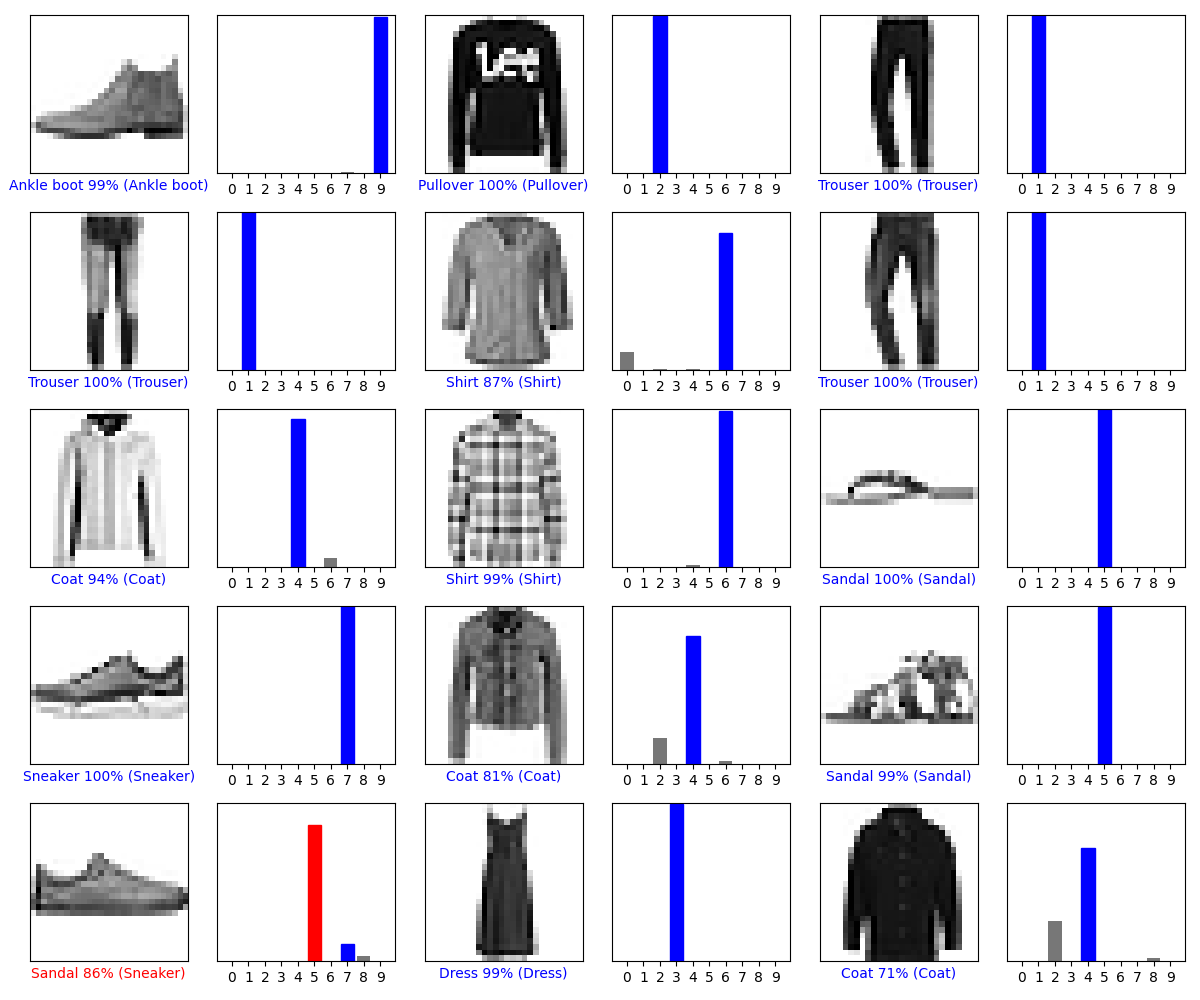
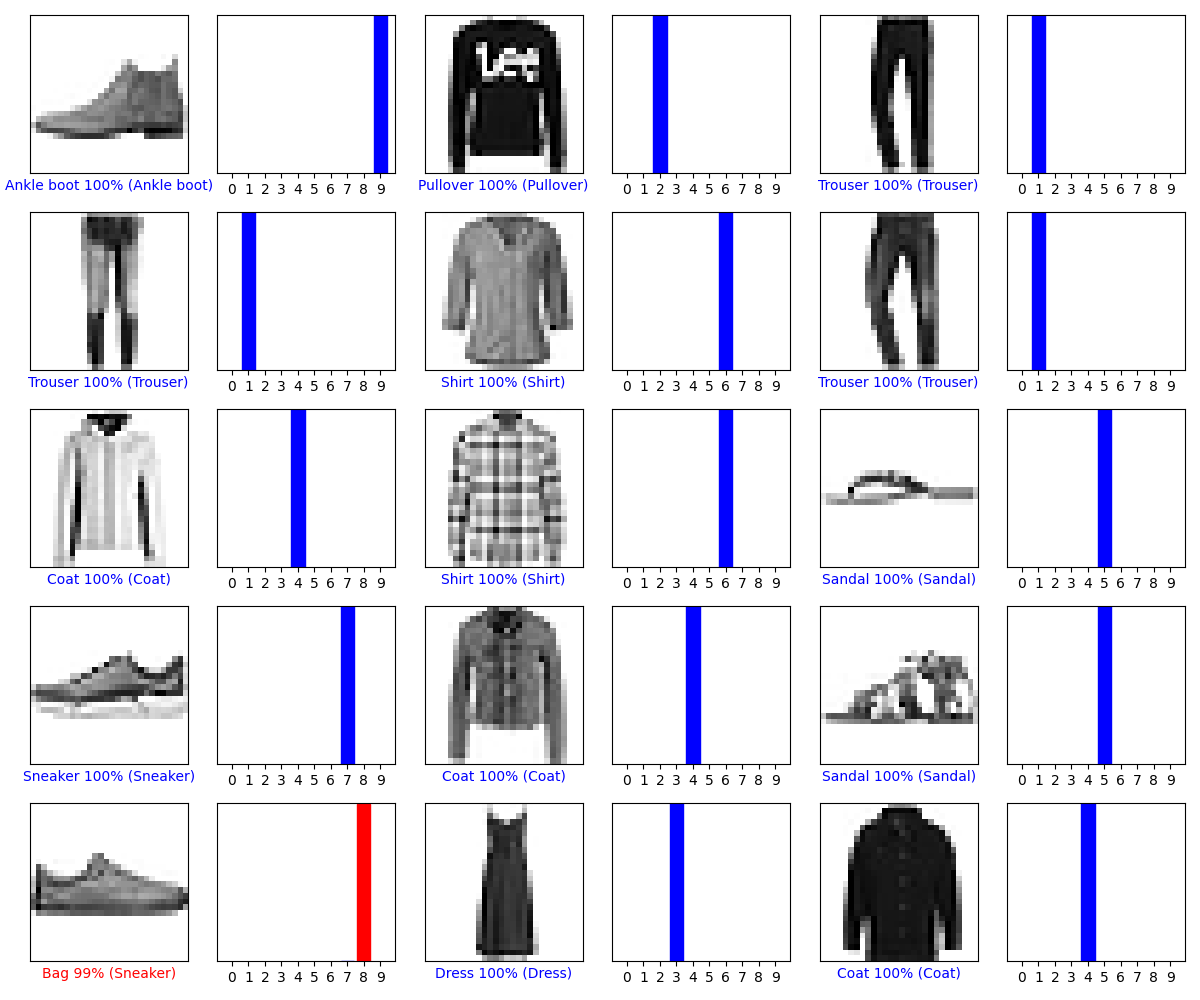
added 2d convolution improved accuracy from 87 to 90 percent

diff --git a/src/fasionMNIST.py b/src/fasionMNIST.py
@@ -40,6 +40,10 @@ def plot_value_array(i, predictions_array, true_label):
 fasion_mnist = tf.keras.datasets.fashion_mnist
 (train_images, train_labels), (test_images, test_labels) = fashion_mnist.load_data()
 
+# reshape dataset to have a single channel
+train_images = train_images.reshape((train_images.shape[0], 28, 28, 1))
+test_images = test_images.reshape((test_images.shape[0], 28, 28, 1))
+
 # Class label names associated to each label number
 class_names = ['T-shirt/top', 'Trouser', 'Pullover', 'Dress', 'Coat',
                'Sandal', 'Shirt', 'Sneaker', 'Bag', 'Ankle boot']
@@ -50,6 +54,7 @@ test_images = test_images / 255.0
 
 # Building the model
 model = tf.keras.Sequential([
+    tf.keras.layers.Conv2D(32, (3, 3), padding='same', activation='relu', kernel_initializer='he_uniform', input_shape=(28, 28, 1)),
     tf.keras.layers.Flatten(input_shape=(28,28)),
     tf.keras.layers.Dense(128, activation='relu'),
     tf.keras.layers.Dense(10)
